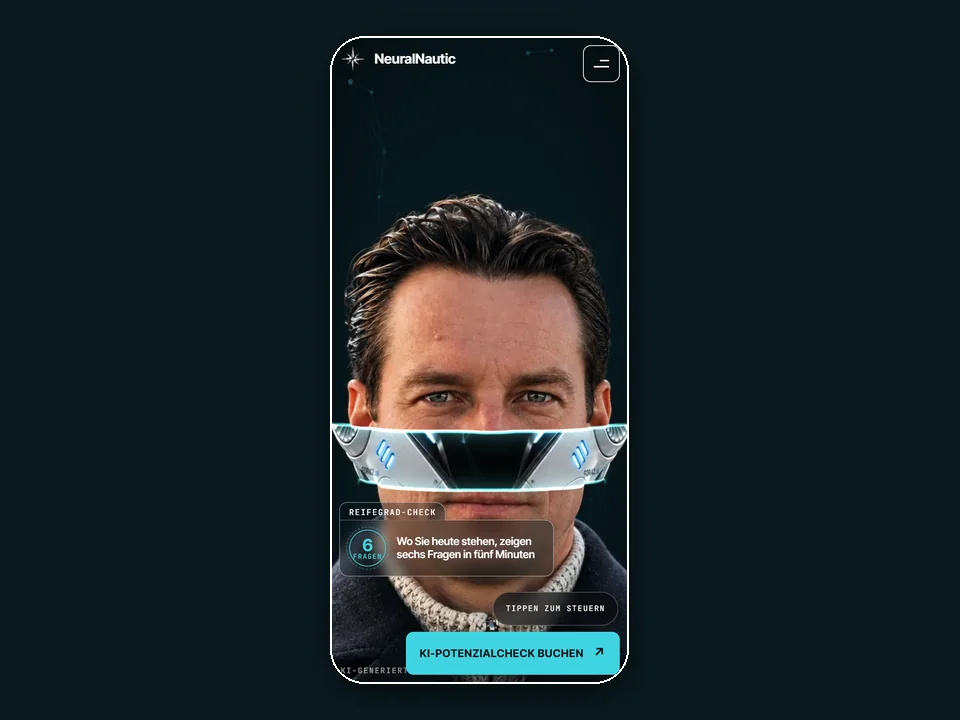
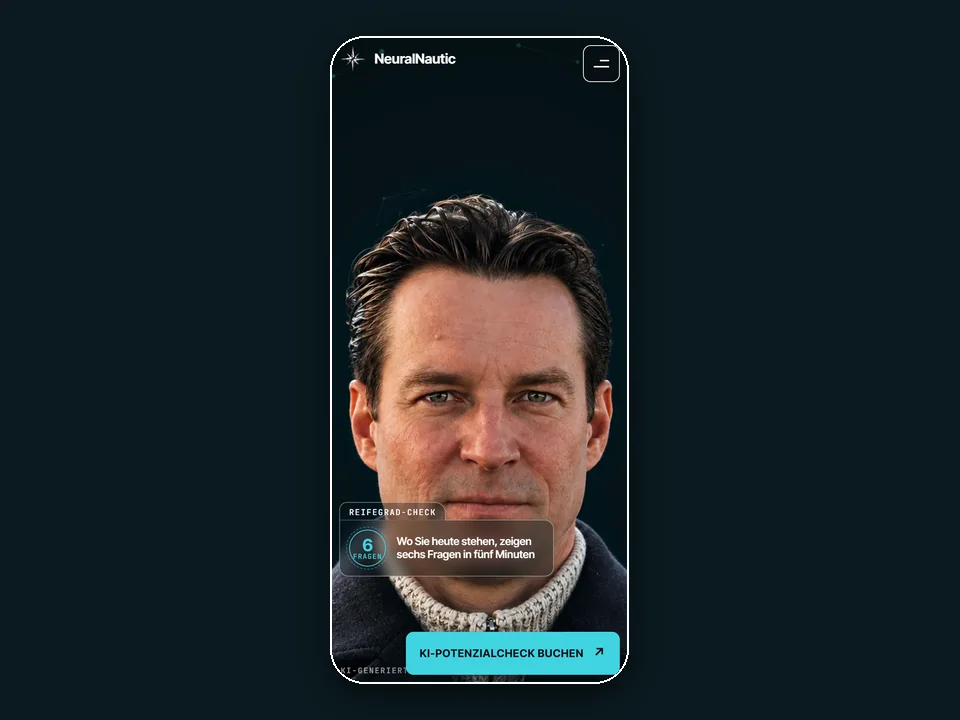
Menue: Start-Kachel mit ruhigem Portraet statt Scan-Band im Gesicht

diff --git a/src/inhalt/start.js b/src/inhalt/start.js
@@ -61,7 +61,8 @@ export const KOPF = {
 
 // Einträge und Adressen wie im Brief (Live-Adressen).
 // Kacheln (Frank, 15.11.2026): Handy-Screenshot der jeweiligen Seite statt Porträt-/Exo-Bildern, erzeugt mit
-// funnel-vorlage/tools/menuebilder.py (390 x 844, erster Bildschirm). Nach Text- oder Layoutänderungen neu erzeugen.
+// funnel-vorlage/tools/menuebilder.py (390 x 844, erster Bildschirm), Start mit --ruhig start (Porträt ohne Scan-Band).
+// Nach Text- oder Layoutänderungen neu erzeugen.
 const seitenBild = (name) => ({ bild: `/medien/menue/${name}.webp`, position: '50% 50%' });
 export const MENUE = {
   titel: 'Menü',
